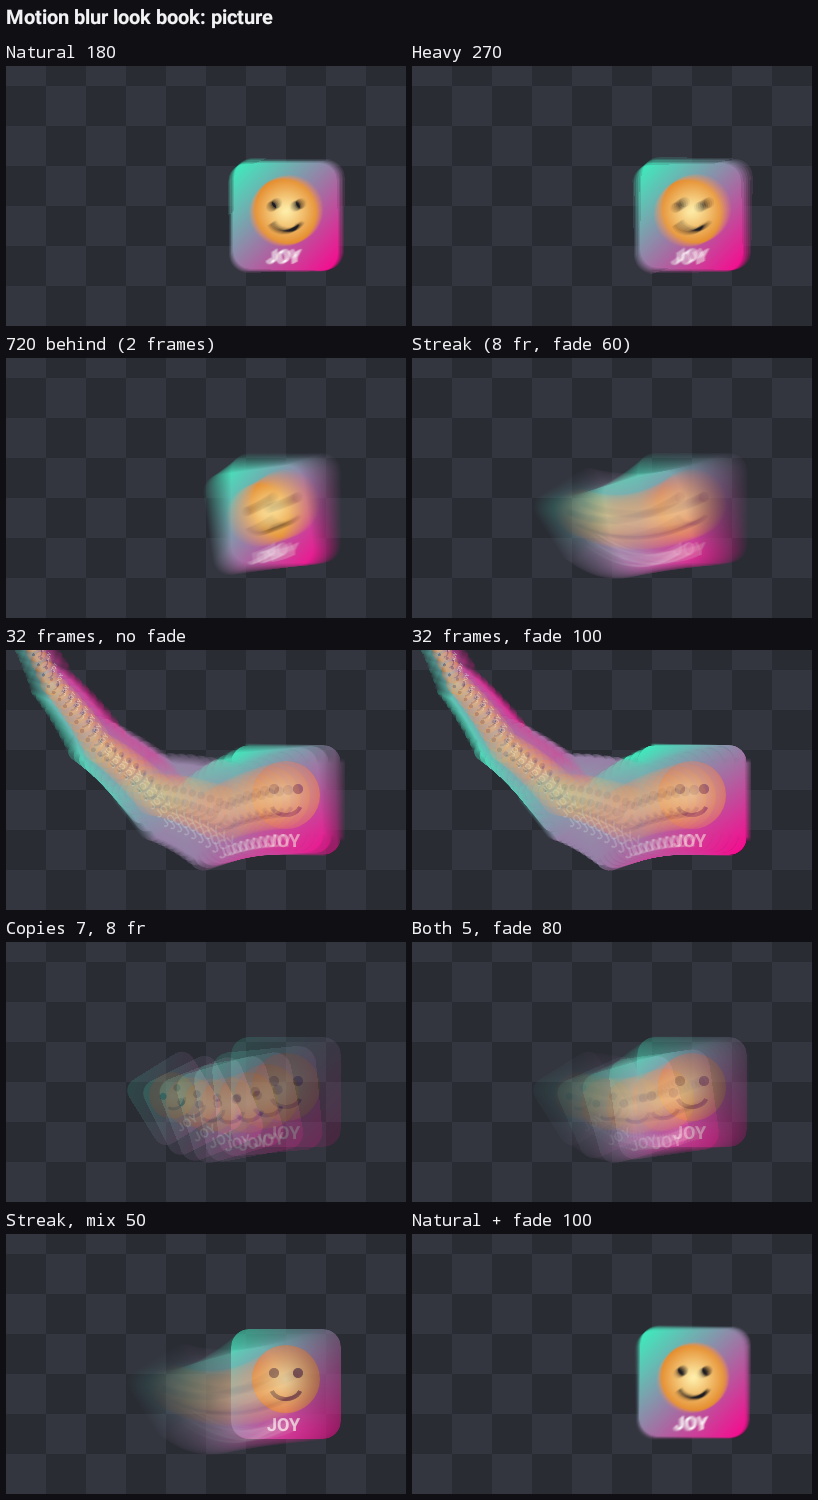
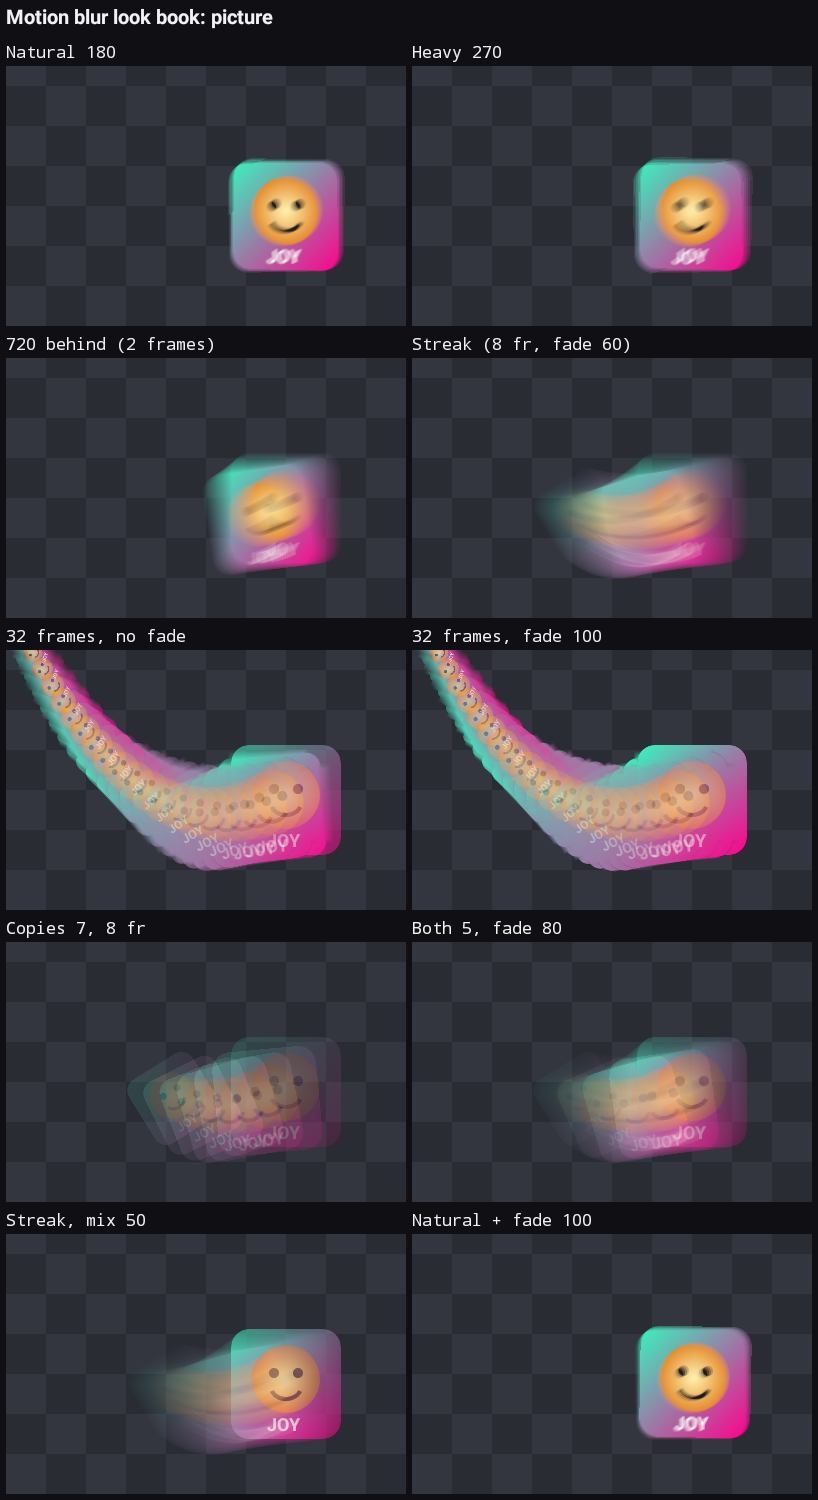
STU-7: Note 9 timing and the plain-tap rebuild landed (c48adb6ce): STATE, channel, look book refresh

diff --git a/tasks/STATE.md b/tasks/STATE.md
@@ -188,7 +188,7 @@ Help: not owed (no new control).
 | Export keeps sound, fades and length in step after transitions (`model/TimeMap`, job [STU-5](jobs/STU-5_studio_structure_and_primitives.md)) | 🟡 ✔ | 2026-11-12. A transition overlaps two clips in the exported file, so the file is shorter than the timeline. Before, only pictures and text allowed for that: music, voiceover and a picture-in-picture's sound came in late by the transitions before them, a clip's fade, opacity, placement and volume curve after a transition ran early, and the file ended on black as long as all its transitions. One small class (`TimeMap`) now answers "where does this moment land in the file" for all of them, and the export sheet shows the file's real length. Agent A/B on the Note 9 (10 stills, nine 0.6 s transitions, a beep and a red clip fading 1 s in and out): the 11-11 build wrote 20.0 s with 5.4 s of black, the beep at 18.6 s in the black, and the red clip popping from black; this build writes 14.6 s, the beep at 13.2 s with the red picture, the red at 60% there and faded to black at the end. `run-timemap.sh` 826 checks. Not tried by JoyRaptor. Limits: during the blend itself the clips show without their fades (preview and file alike); a sound that starts inside a blend starts where the next clip's own picture starts. Help: not needed (automatic; nothing to ask), mapped 11-13 (export timing). |
 | Picture-in-picture export matches the editor (Codex round 2, [routing](audits/codex/ROUTING_20261115.md)) | 🟡 ✔ | 2026-11-15. Every picture-in-picture without a mask exported about a third of its size and squashed into the project's shape, a 24 fps clip in a 30 fps project ran a quarter fast and froze early, a half-transparent one came out too bright, and its effects (blur, colour) were read on the wrong clock after a transition. Adding a mask changed its size. Now export and editor share one placement rule (`model/PipPlacement`), the GPU reader reuses the frame it holds, the overlay is drawn premultiplied, and effects read the editor clock. Proof: `run-pip.sh` (`PipExportTest`, with NEGCTRLs that fail the old rules); Studio suites 56/56 in the cloud. DEVICE (agent, test Fold, 11-16, build 380b6fac6): a portrait 24 fps clip over a landscape 30 fps project at 50%, exported plain and with a mask (both export paths), measured frame by frame: 35.0% of the frame's height, 9:16, right way up (marker top-left), grey 75 where 76 is due (the old bug gave about 127), output frame 29 shows source frame 24 and frame 90 source 72 (the old reader showed 29 and 90); the editor drew the same rectangle within 2 pixels. Not checked on a device: rotation, effects after a transition. Help: none needed (automatic). |
 | Single-frame export (JPG/PNG) | 🟡 ✔ | Export sheet, "single frame": agent-checked on the Note 9 10-28: a real 1080x1920 PNG and JFIF JPEG land in the Joy Creator folder under the project's name. Not yet tried by JoyRaptor. |
-| Studio rigid motion blur | 🟡 ✔ | **11-27: the Motion Blur card (spec §K, owner picks A1 B3 C1 D1 E1 F1) and Codex's C5/C6 candidate landed at `e2da7ba60`, still hidden.** User gets (once shown): a Motion Blur card in each object's Effects tab (clips, PiPs, pictures, titles; sprites get an Effects tab), added from Add effect: Natural / Crisp / Heavy / Trailing, a draggable shutter strip (last / this / next frame), Mix, one plain line when the object stays sharp, hold the swatch to compare, Show exact frame. Engine: `motion/card/MotionBlurCard`, `ShutterStripView`, studiokit `ShutterStripModel` (PC suite `motioncard`). **Landed `ba27328a3` (11-27):** keyframes on Shutter and Mix (‹◆›, eased, absolute timeline ms like effect keys); long trails up to 32 frames back (strip zooms out past the last frame), a Streak preset, and More: Fade and Look (Smear / Copies / Both) for every blur. Long trails draw from real earlier poses for pictures, titles, PiP, moving clips and sprites (new trail program in `RigidTextureShutterPass`; camera program untouched); filmed video and puppets cap at their own limits and the card says so. Proof: PC suite `motioncard` (ShutterStripModel 66, ShutterKeys 22, TrailPlan 43 checks, mutants caught); GitHub emulator workflow `stu7-motion-emulator.yml` (trail pixels: continuous, even, Copies gaps, Fade, Mix; real card driven, screenshots); Studio CI 96/96; Note 9 seen with a test-only ungated build (card, chips, Streak, plain lines, a long trail live in the editor preview). **`bad8617cc` (11-27):** trails follow arcs (each step turns and zooms about the segment's fixed point, laps counted, so swings and spins trace true curves), up to 12 key poses placed by how far the corners travel, per-pixel softening, two texture taps a step; a camera shutter whose taps would sit more than 3 px apart is drawn by the same smooth program. Look book (emulator, real shader): [tasks/motionblur/lookbook/](motionblur/lookbook/). Limits seen there: an 8-lap spin with a 32-frame trail blurs to a spiky disc; very long trails on round or detailed art show faint scallops / repeated detail; Note 9 cost of the smooth program not yet measured. Owner look owed. Not yet: the effect-layer card (blocked on True layer order rollout). Earlier: C2 export (`665409126`) and C3 live preview (`add742305`) landed. Keyframed main clips, ordinary pictures, plain titles, directly keyed sprites and ordinary PiP share the rigid shutter. The Motion Blur sheet and Inspect Frame stay hidden behind `studio_motion_blur`, with the project switch off by default. Studio CI and ordinary-item playback are verified on the Snapdragon Note 9 ([STU-7](jobs/STU-7_motion_blur.md)). The pinned C4 candidate passed compatibility, true order, old-project stability and the blur-off latch budget on Snapdragon. The isolated exact-latch PiP candidate exports the plain and blended comparisons bit-exactly. Its Snapdragon ordered 30-second export averaged 3.6% faster. Ordered graphics memory stayed flat across 50 measured seeks after warm-up. The Wi-Fi Snapdragon check verified both the original and ordered paused PiP at 647 ms after a decoder-readiness fix. C4 landed separately at `3c0179278` after the integrated Android, Studio, Joybot and Snapdragon checks. True Layer Order is internally gated and off by default. C5 recorded-avatar preview and export matched exactly at three times on the emulator. Snapdragon avatar shutter taps and standalone stamps matched, but the decoded base frame and final pixels differed. The authored-puppet fixture selected the same mesh cells and also missed the physical pixel threshold ([C5 device evidence](motionblur/C5_SNAPDRAGON_PARITY_REPORT.md)). C6's gated candidate passed exact source binding and previous-color preview host checks. High export repeated exactly at matched PTS on Snapdragon and virtual Android. The private footage, cut and Inspect Frame checks exercised the effect on Snapdragon. Paused High preview with both exact neighboring frames repeated bit-for-bit on Snapdragon at one source timestamp. The corrected C6 flow sampler improved all six measured Snapdragon export frames across independent Sony running and low-light hand references. Raw preview/export parity, the wider visual corpus, sustained Snapdragon performance and owner acceptance remain open. The owner removed the unavailable Exynos model from the required Android release matrix on 11-27. Record compatibility results by device and OS. Reusable source includes `MotionShutter`, `RigidShutterPlan`, `RigidTextureShutterPass` and `IndexedFlowSession`. The rigid-item help topic and Joybot tip `studio_motion_blur` landed at `51b838070`, with host checks in both gate states. They remain hidden by the Motion Blur launch key. |
+| Studio rigid motion blur | 🟡 ✔ | **11-27: the Motion Blur card (spec §K, owner picks A1 B3 C1 D1 E1 F1) and Codex's C5/C6 candidate landed at `e2da7ba60`, still hidden.** User gets (once shown): a Motion Blur card in each object's Effects tab (clips, PiPs, pictures, titles; sprites get an Effects tab), added from Add effect: Natural / Crisp / Heavy / Trailing, a draggable shutter strip (last / this / next frame), Mix, one plain line when the object stays sharp, hold the swatch to compare, Show exact frame. Engine: `motion/card/MotionBlurCard`, `ShutterStripView`, studiokit `ShutterStripModel` (PC suite `motioncard`). **Landed `ba27328a3` (11-27):** keyframes on Shutter and Mix (‹◆›, eased, absolute timeline ms like effect keys); long trails up to 32 frames back (strip zooms out past the last frame), a Streak preset, and More: Fade and Look (Smear / Copies / Both) for every blur. Long trails draw from real earlier poses for pictures, titles, PiP, moving clips and sprites (new trail program in `RigidTextureShutterPass`; camera program untouched); filmed video and puppets cap at their own limits and the card says so. Proof: PC suite `motioncard` (ShutterStripModel 66, ShutterKeys 22, TrailPlan 43 checks, mutants caught); GitHub emulator workflow `stu7-motion-emulator.yml` (trail pixels: continuous, even, Copies gaps, Fade, Mix; real card driven, screenshots); Studio CI 96/96; Note 9 seen with a test-only ungated build (card, chips, Streak, plain lines, a long trail live in the editor preview). **`bad8617cc` (11-27):** trails follow arcs (each step turns and zooms about the segment's fixed point, laps counted, so swings and spins trace true curves), up to 12 key poses placed by how far the corners travel, per-pixel softening, two texture taps a step; a camera shutter whose taps would sit more than 3 px apart is drawn by the same smooth program. Look book (emulator, real shader): [tasks/motionblur/lookbook/](motionblur/lookbook/). **`c48adb6ce` (11-27), rebuilt for the Note 9:** the arc shader measured 99-205 ms a frame on the Note 9, so a smooth plan is now plain taps: the thing where it really was, placed by travel ~3 px apart (curves exact), drawn by a 12/24/48/64-tap program; the live preview takes at most 11 smear taps, export up to 48. Note 9 (Adreno 630, 1080x1920 frame, 600 px picture, median): no blur 3.5 ms, camera 6-tap 4.7, fast Natural 8.9, preview Streak 4.6 / 32 frames 6.0 / fast Heavy spin 5.3 / Both 12.8; export 41-55 ms for 48-tap trails (export only). Timing test `MotionTimingTest` (run on the phone from the emulator workflow's APKs). Limits: an 8-lap spin with a 32-frame trail blurs to a spiky disc; very long trails on detailed art repeat detail; the live preview of a long trail is softer than its export. Owner look owed. Not yet: the effect-layer card (blocked on True layer order rollout). Earlier: C2 export (`665409126`) and C3 live preview (`add742305`) landed. Keyframed main clips, ordinary pictures, plain titles, directly keyed sprites and ordinary PiP share the rigid shutter. The Motion Blur sheet and Inspect Frame stay hidden behind `studio_motion_blur`, with the project switch off by default. Studio CI and ordinary-item playback are verified on the Snapdragon Note 9 ([STU-7](jobs/STU-7_motion_blur.md)). The pinned C4 candidate passed compatibility, true order, old-project stability and the blur-off latch budget on Snapdragon. The isolated exact-latch PiP candidate exports the plain and blended comparisons bit-exactly. Its Snapdragon ordered 30-second export averaged 3.6% faster. Ordered graphics memory stayed flat across 50 measured seeks after warm-up. The Wi-Fi Snapdragon check verified both the original and ordered paused PiP at 647 ms after a decoder-readiness fix. C4 landed separately at `3c0179278` after the integrated Android, Studio, Joybot and Snapdragon checks. True Layer Order is internally gated and off by default. C5 recorded-avatar preview and export matched exactly at three times on the emulator. Snapdragon avatar shutter taps and standalone stamps matched, but the decoded base frame and final pixels differed. The authored-puppet fixture selected the same mesh cells and also missed the physical pixel threshold ([C5 device evidence](motionblur/C5_SNAPDRAGON_PARITY_REPORT.md)). C6's gated candidate passed exact source binding and previous-color preview host checks. High export repeated exactly at matched PTS on Snapdragon and virtual Android. The private footage, cut and Inspect Frame checks exercised the effect on Snapdragon. Paused High preview with both exact neighboring frames repeated bit-for-bit on Snapdragon at one source timestamp. The corrected C6 flow sampler improved all six measured Snapdragon export frames across independent Sony running and low-light hand references. Raw preview/export parity, the wider visual corpus, sustained Snapdragon performance and owner acceptance remain open. The owner removed the unavailable Exynos model from the required Android release matrix on 11-27. Record compatibility results by device and OS. Reusable source includes `MotionShutter`, `RigidShutterPlan`, `RigidTextureShutterPass` and `IndexedFlowSession`. The rigid-item help topic and Joybot tip `studio_motion_blur` landed at `51b838070`, with host checks in both gate states. They remain hidden by the Motion Blur launch key. |
 | Export finished screen says where the file is | 🟡 | 11-12 (ae9ceae73): after a video or audio export the screen says it is saved in your Joy Creator folder and to find it in the Library (it used to say 'the Records Tab', FadCam's screen). Text change only, two English strings; the other locales were not re-checked and the screen was not seen on a phone. Help `export`, `library_exports` (Joybot HelpBook, mapped 11-13). |
 | Effect picker as a grid of pictures, live swatch on each stack card; TextLab's pieces as Studio effects (STU-6) | 🔵 | Planned 11-12 (d69214364 is a card only; nothing built). Today the effect picker is a text list. Plan: [STU-6](jobs/STU-6_effect_swatches_and_textlab_generators.md). Not built, not promotable. |
 | Timeline bookmarks and regions (`studio.timeline-marks`) | 🟡 ✔ | Landed 10-28 (b3c2b23b0; built by Codex 10-23/24, rescued). Tap the playhead time to drop a bookmark; hold it for **Marks & regions**: rename, jump previous/next, Set In/Out to make a region, loop a region while playing, export just the regions (video or audio-only, named "<project> - Region 1"). Undo/redo, and kept after closing the project and after a force-stop. Agent-checked on the Note 9 10-28 (loop held inside a 5.4 s region for 11 s; region export 5397 ms). Re-checked on the Note 9 11-04 (STU-3): tapping the playhead time drops a bookmark, holding it opens Marks & regions (rename pencil, previous/next, Set In/Out, Loop, Export), Set Out at 8 s showed "Out 8s . set In"; not re-run that day: finishing a region, loop timing, region export, rename, reopen, undo of a mark. Not yet tried by JoyRaptor. Joybot's `add_marker` can now be switched on (Joybot lane). Spec `tasks/SPEC_TIMELINE_MARKS_20261023.md`. Help: Joybot topic `studio_marks` (11-13). |

diff --git a/tasks/motionblur/CHANNEL.md b/tasks/motionblur/CHANNEL.md
@@ -1574,3 +1574,9 @@ was away) as "decided: …" so it can be overturned later.
 - Owner: the swinging end of a trail stepped. Now each step between key poses turns and zooms about the segment's fixed point (a slide when there is no turn), laps counted along 48 probes; up to 12 key poses placed by corner travel at exact (fractional) places; per-pixel softening capped at 0.35 UV; two texture taps a step. Camera shutters whose six taps would sit > 3 px apart use the same smooth program (same exposure).
 - Proof: TrailPlanTest 89 checks (swing tip on the arc to 1.6e-13 px vs 3.6 px for a straight blend; arc mutant caught; two-lap spin keeps direction); emulator 8/8 incl. MotionGalleryTest look book ([lookbook/](lookbook/)); Studio CI 97/97.
 - Open: Note 9 timing of the smooth program (it replaces the 6-tap camera program on fast moves); very long trails on detailed art still repeat detail.
+
+### 2026-11-27 Claude (Opus 5.5) → STU-7: Note 9 timing; smooth plans rebuilt as plain taps (`c48adb6ce`)
+- Note 9 (Adreno 630) timing, `MotionTimingTest`, 1080x1920 frame, 600 px picture, median of 40: arc shader 99-205 ms (rejected). Rebuilt: no blur 3.5 ms; camera 6-tap 4.7; fast Natural (15 taps) 8.9; live preview (11 smear taps max) Streak 4.6, 32 frames 6.0, fast Heavy spin 5.3, Both 12.8; export (48 taps) 41-55 ms.
+- Design: every tap is a real pose (curves exact, nothing per pixel but two dot products a tap), placed by corner travel ~3 px apart; programs for 12/24/48/64 taps; smear taps soften toward the next; preview capped via `RigidTextureShutterPass.planPreview`.
+- Phone runs: emulator workflow keeps `app.apk` + `tests.apk`; re-sign with the PC debug key; install -r; `am instrument -e class ...MotionTimingTest`; restore the saved APK (hash-checked) and uninstall the test APK. Note 9 slots were arranged with JoyBrush Command / the JBX-36 lane.
+- Next: owner look (card + trails on the phone), C5 physical parity, C7 blind review, effect-layer card (after True layer order).
